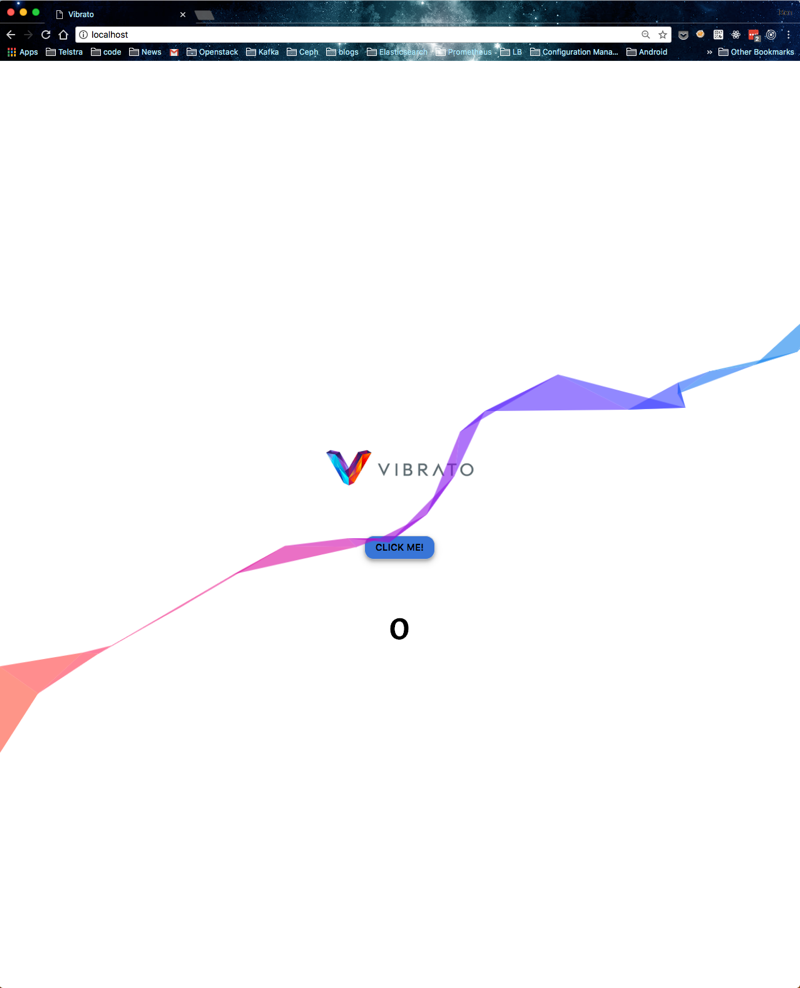
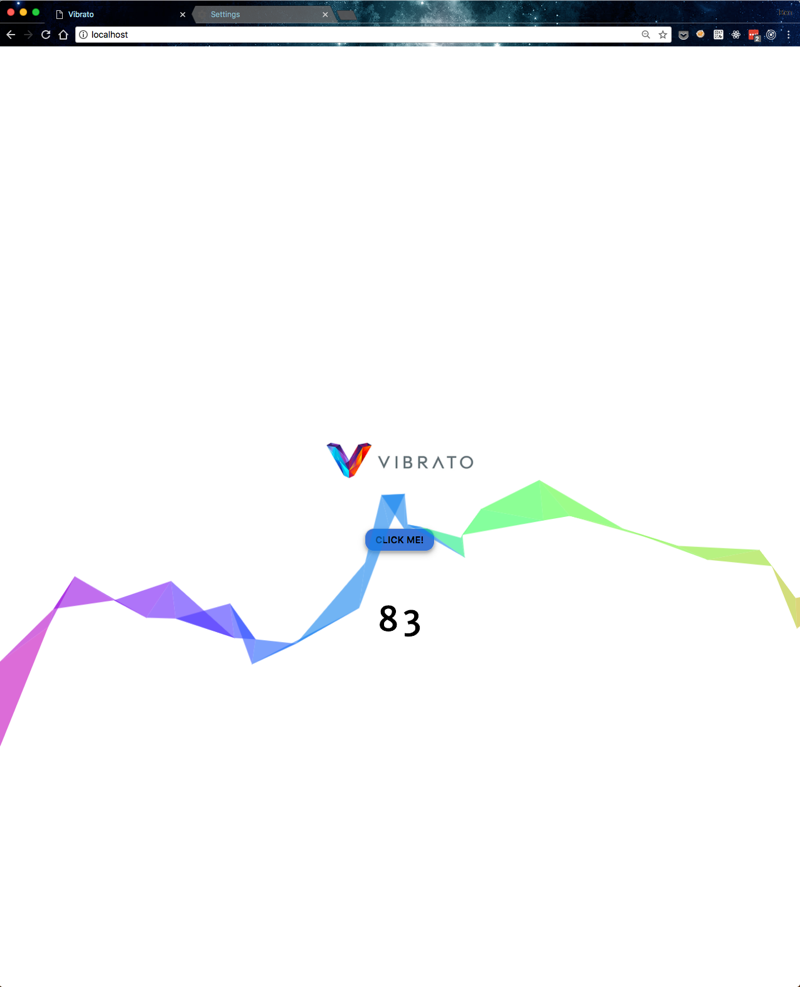
fixed documentation

diff --git a/README.md b/README.md
@@ -16,7 +16,7 @@ deployment can be seen below
 
 ## Components
 The stack is comprised of the following components, which 
-have been chosen for their familiarity and easey/quick stand
+have been chosen for their familiarity and easy/quick stand
 up time.
 
 ### NGINX
@@ -34,8 +34,11 @@ is read/written from the Django application.
 
 
 # Landing Page
-
-<insert-landing-page-screenshot-here>
+The basic application/landing page presents a button 
+which is clickable. On each click it will make a 
+POST request to the webapp, the webapp will then increment
+the currently stored value in the database.
+On each click a nice animation is drawn on the canvas.
 
 
 
